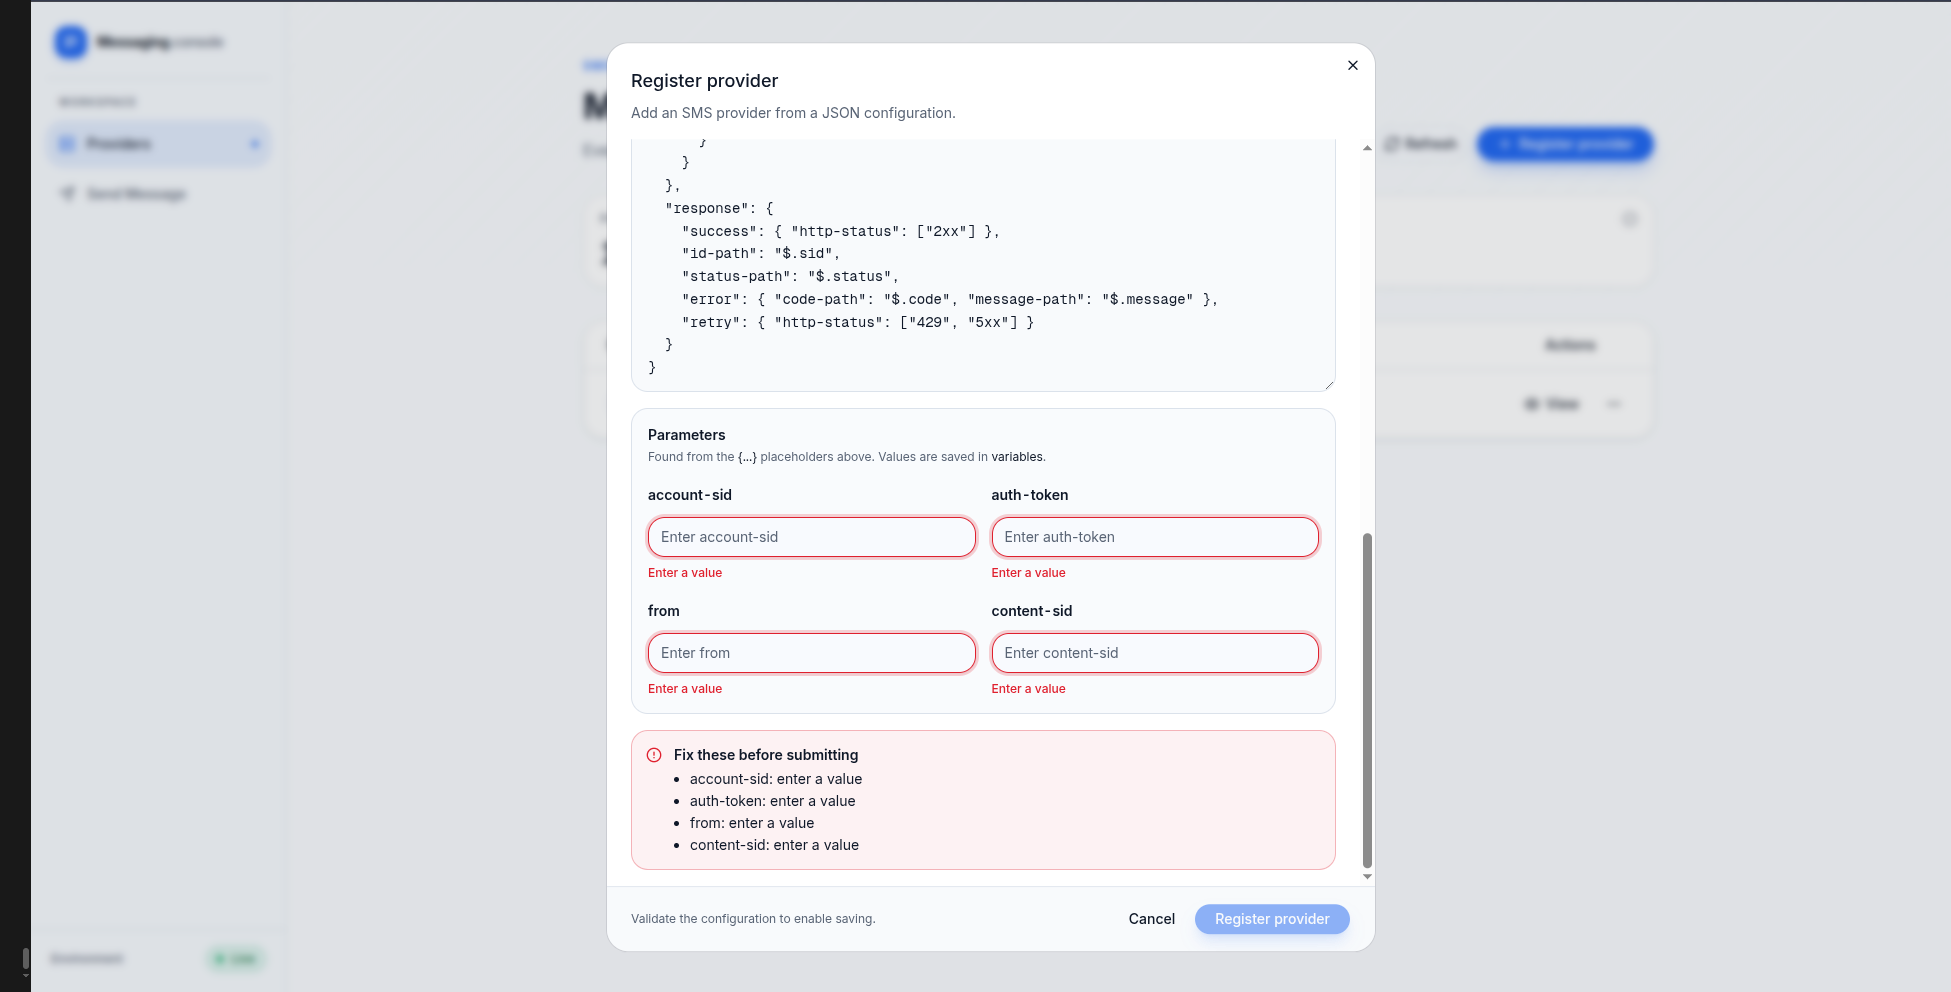
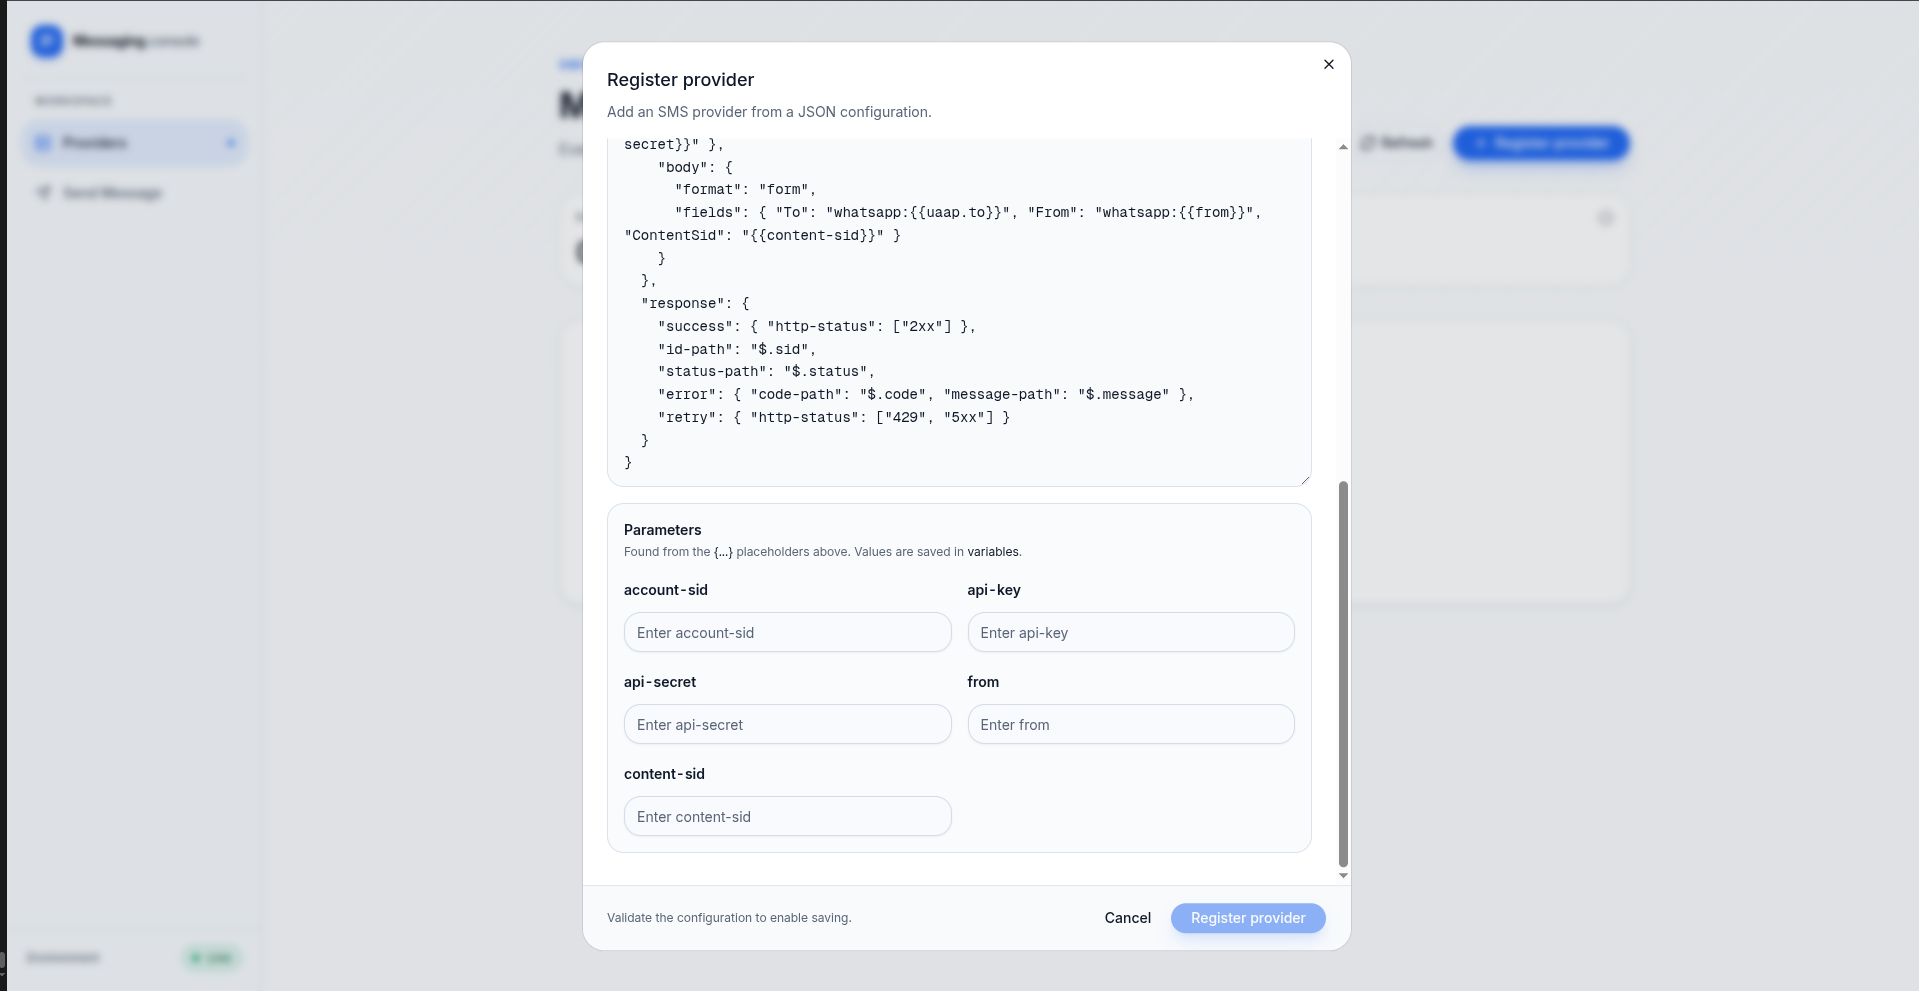
WhatsApp guide: register screenshot with API key boxes
- new 06-register-empty.png shows the five boxes (account-sid, api-key,
  api-secret, from, content-sid)
- remove 05-register-paste.png and 07-register-filled.png, which showed
  the old auth-token box
- step 7 lists where each value comes from instead of the old screenshot

diff --git a/docs/providers/whatsapp/README.md b/docs/providers/whatsapp/README.md
@@ -85,18 +85,22 @@ changes.
 Open **http://localhost:5173**, go to **Providers** and click **Register provider**. Open
 [twilio-whatsapp.json](twilio-whatsapp.json), copy all of it, and paste it into the box.
 
-![Register provider with the WhatsApp template pasted](images/05-register-paste.png)
-
 Five boxes appear below it: `account-sid`, `api-key`, `api-secret`, `from` and `content-sid`.
 
-![Register provider form with the empty boxes](images/06-register-empty.png)
+![Register provider with the WhatsApp template pasted and its five boxes](images/06-register-empty.png)
 
 ### Step 7. Fill in your values and register
 
-Paste the five values from Part 1. Click **Validate**. When it says **Configuration looks valid**,
-click **Register provider**.
+Paste the five values from Part 1 into their boxes:
 
-![Register provider form with the values filled in](images/07-register-filled.png)
+| Box | Value from |
+|---|---|
+| `account-sid` | Step 1 |
+| `api-key`, `api-secret` | Step 2 (the API key's SID and Client secret) |
+| `from` | Step 4 |
+| `content-sid` | Step 5 |
+
+Click **Validate**. When it says **Configuration looks valid**, click **Register provider**.
 
 The provider now shows in the list as **TWILIO_WHATSAPP**, channel **WHATSAPP**, **Enabled**.
 
